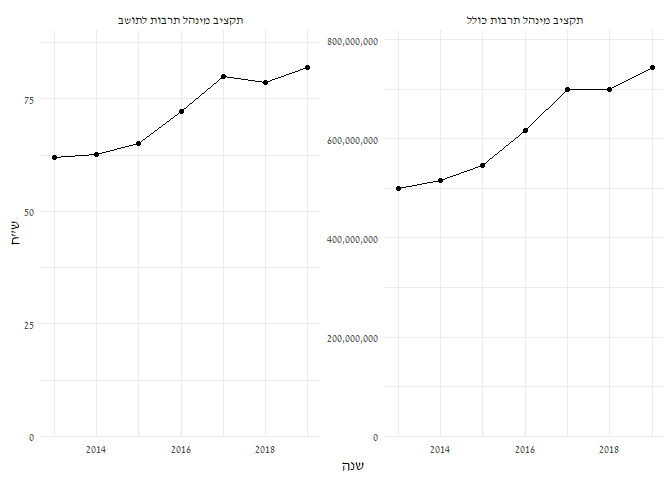
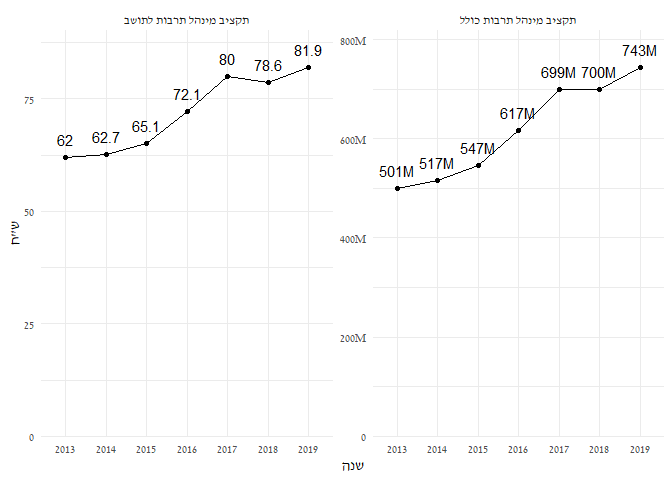
Compile new png files

diff --git a/entire_workflow.md b/entire_workflow.md
@@ -1121,11 +1121,23 @@ df |>
   ggplot(aes(year, value)) +
   geom_line() +
   geom_point() +
+  geom_text(
+    aes(label = if_else(value < 1e6, as.character(round(value, 1)), paste0(round(value / 1e6, 0), "M"))),
+    vjust = -1
+  ) +
   facet_wrap(~ var, scales = "free_y", labeller = labeller(var = c(budget_per_capita = "תקציב מינהל תרבות לתושב", budget_tot = "תקציב מינהל תרבות כולל"))) +
   scale_y_continuous(
-    labels = label_comma(),
+    labels = label_number(scale_cut = cut_short_scale()),
     limits = c(0, NA),
     expand = expansion(mult = c(0, 0.1))
+  ) +
+  scale_x_continuous(
+    breaks = 2013:2019,
+    labels = 2013:2019,
+    expand = expansion(mult = c(0.1, 0.1))
+  ) +
+  theme(
+    panel.grid.minor.x = element_blank()
   ) +
   labs(
     x = "שנה",
@@ -1918,18 +1930,11 @@ df_sela_mdl |>
 
 ``` r
 df <- df |> 
-  filter(year == 2014) |>
-  mutate(
-    # Percent of total 2014 culture budget going to this municipality
-    budget_approved_culture_2014_pct = budget_approved_culture / sum(budget_approved_culture)
-  ) |> 
-  select(muni_id, budget_approved_culture_2014_pct) |> 
-  right_join(df, join_by(muni_id)) |> 
-  relocate(budget_approved_culture_2014_pct, .after = last_col()) |> 
   mutate(
     .by = year,
-    # The hypothetical SELA budget that would be going to the municipality if the budget was distributed by the 2014 distribution
-    budget_approved_sela_hypo = sum(budget_approved_sela) * budget_approved_culture_2014_pct
+    # The hypothetical SELA budget that would be going to the municipality if the budget was distributed by the the culture budget distribution that year
+    budget_approved_culture_pct = (budget_approved_culture - budget_approved_sela) / sum(budget_approved_culture - budget_approved_sela),
+    budget_approved_sela_hypo = sum(budget_approved_sela) * budget_approved_culture_pct
   ) |> 
   mutate(
     # The hypothetical total culture budget that would be going to the municipality if the SELA budget was distributed by the 2014 total culture budget distribution
